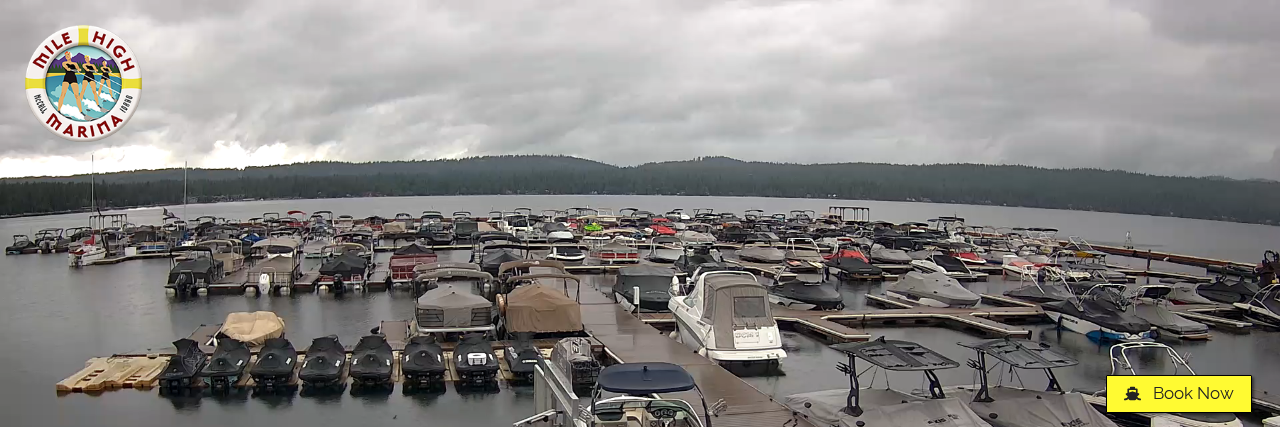
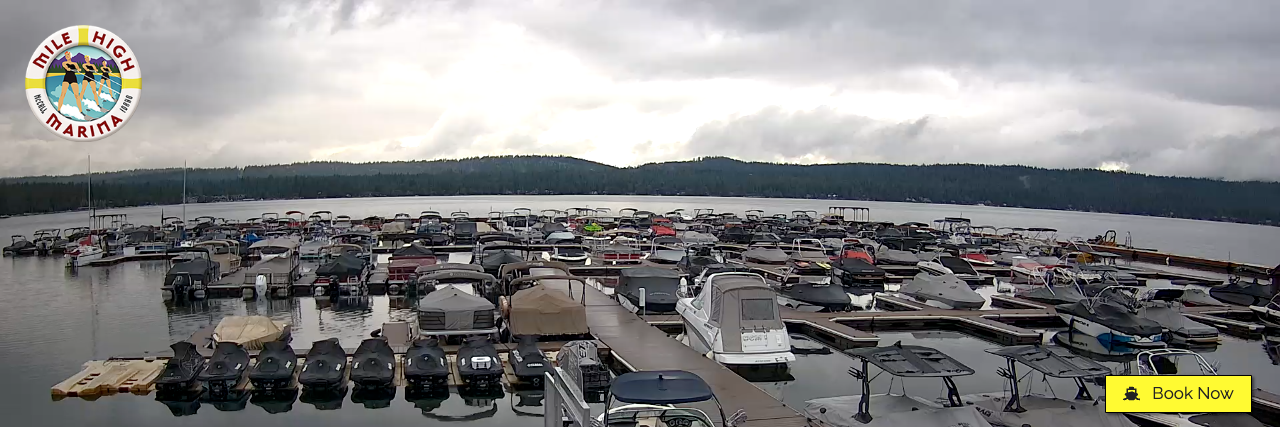
Add Tahoe Edgewood camera feed

diff --git a/src/forecast/app.js b/src/forecast/app.js
@@ -34,6 +34,23 @@ const mapViewBounds = {
 
 const defaultSpotSlug = "payette-lake";
 
+const cameraBySpot = {
+  "lake-tahoe": {
+    title: "Edgewood Tahoe Camera",
+    description: "Current South Lake Tahoe shoreline view",
+    sourceUrl: "https://edgewoodtahoe.com/webcam/",
+    imageUrl: "assets/edgewood-tahoe-camera.png",
+    alt: "Edgewood Tahoe webcam screenshot over Lake Tahoe",
+  },
+  "payette-lake": {
+    title: "Mile High Marina Camera",
+    description: "Current Payette Lake marina view",
+    sourceUrl: "https://milehighmarina.com/webcams/",
+    imageUrl: "assets/mile-high-marina-camera.png",
+    alt: "Mile High Marina webcam screenshot over Payette Lake",
+  },
+};
+
 const placeholderForecast = Array.from({ length: 10 }, (_, index) => ({
   label: index === 0 ? "Today" : new Date(Date.now() + index * 86400000).toLocaleDateString("en-US", { weekday: "short" }),
   grade: "--",
@@ -207,11 +224,25 @@ function renderSpot(spot) {
   currentLiveLatest = null;
   document.getElementById("spotName").textContent = spot.name;
   document.getElementById("spotLocation").textContent = spot.location;
-  const cameraCard = document.getElementById("cameraCard");
-  if (cameraCard) cameraCard.hidden = spot.slug !== "payette-lake";
+  renderCameraCard(spot);
   loadLiveSpotData(spot);
   loadWindTimelapse(spot);
   loadLakeShoreline(spot);
+}
+
+function renderCameraCard(spot) {
+  const camera = cameraBySpot[spot.slug];
+  const cameraCard = document.getElementById("cameraCard");
+  if (!cameraCard) return;
+  cameraCard.hidden = !camera;
+  if (!camera) return;
+  document.getElementById("cameraTitle").textContent = camera.title;
+  document.getElementById("cameraDescription").textContent = camera.description;
+  const source = document.getElementById("cameraSource");
+  source.href = camera.sourceUrl;
+  const image = document.getElementById("cameraImage");
+  image.src = camera.imageUrl;
+  image.alt = camera.alt;
 }
 
 function renderLiveSpotData(bundle) {

diff --git a/scripts/capture_mile_high_camera.js b/scripts/capture_mile_high_camera.js
@@ -12,6 +12,15 @@ function launchOptions() {
 
 (async () => {
   const browser = await chromium.launch(launchOptions());
+  await captureMileHigh(browser);
+  await captureEdgewood(browser);
+  await browser.close();
+})().catch((error) => {
+  console.error(error);
+  process.exit(1);
+});
+
+async function captureMileHigh(browser) {
   const page = await browser.newPage({ viewport: { width: 1280, height: 900 }, deviceScaleFactor: 1 });
   await page.goto("https://milehighmarina.com/webcams/", { waitUntil: "domcontentloaded", timeout: 45000 });
   await page.waitForTimeout(6000);
@@ -19,8 +28,19 @@ function launchOptions() {
     path: "assets/mile-high-marina-camera.png",
     clip: { x: 0, y: 473, width: 1280, height: 427 },
   });
-  await browser.close();
-})().catch((error) => {
-  console.error(error);
-  process.exit(1);
-});
+  await page.close();
+}
+
+async function captureEdgewood(browser) {
+  const page = await browser.newPage({ viewport: { width: 1280, height: 1000 }, deviceScaleFactor: 1 });
+  await page.goto("https://edgewoodtahoe.com/webcam/", { waitUntil: "domcontentloaded", timeout: 45000 });
+  await page.waitForTimeout(3000);
+  const acceptCookies = page.locator("#CybotCookiebotDialogBodyButtonAccept");
+  if (await acceptCookies.isVisible().catch(() => false)) {
+    await acceptCookies.click();
+  }
+  await page.waitForTimeout(4000);
+  const cameraFrame = page.locator("iframe[title*='Embedded camera'], iframe[src*='earthcam']").first();
+  await cameraFrame.screenshot({ path: "assets/edgewood-tahoe-camera.png" });
+  await page.close();
+}

diff --git a/index.html b/index.html
@@ -73,11 +73,11 @@
         <div class="section-heading">
           <div>
             <h2 id="cameraTitle">Mile High Marina Camera</h2>
-            <p>Current Payette Lake marina view</p>
+            <p id="cameraDescription">Current Payette Lake marina view</p>
           </div>
-          <a href="https://milehighmarina.com/webcams/" target="_blank" rel="noopener">Source</a>
+          <a id="cameraSource" href="https://milehighmarina.com/webcams/" target="_blank" rel="noopener">Source</a>
         </div>
-        <img src="assets/mile-high-marina-camera.png" alt="Mile High Marina webcam screenshot over Payette Lake">
+        <img id="cameraImage" src="assets/mile-high-marina-camera.png" alt="Mile High Marina webcam screenshot over Payette Lake">
       </section>
 
       <section class="ten-day-card" aria-labelledby="forecastTitle">

diff --git a/scripts/README.md b/scripts/README.md
@@ -13,10 +13,10 @@ Outputs:
 - `data/live/spots/payette-lake.json`
 - `data/live/wind_frames/*.json`
 - `data/live/map_layers/payette_*.geojson`
-- `assets/mile-high-marina-camera.png` when Node + Playwright are available
+- `assets/mile-high-marina-camera.png` and `assets/edgewood-tahoe-camera.png` when Node + Playwright are available
 
-Install macOS schedule. This refreshes weather data and the Mile High Marina
-camera screenshot hourly from 7:00 AM through 10:00 PM local time:
+Install macOS schedule. This refreshes weather data and lake camera screenshots
+hourly from 7:00 AM through 10:00 PM local time:
 
 ```sh
 chmod +x scripts/run_lakepro_pipeline.sh

diff --git a/assets/README.md b/assets/README.md
@@ -7,5 +7,6 @@ Current files:
 - `favicon.png` - temporary favicon using the supplied boat mark.
 - `hero-image.jpg` - unused placeholder from the foundation phase.
 - `mile-high-marina-camera.png` - current screenshot captured from the Mile High Marina webcam page for the Payette Lake report slot.
+- `edgewood-tahoe-camera.png` - current screenshot captured from the Edgewood Tahoe webcam page for the Lake Tahoe report slot.
 
 The site currently uses the map-first Dive Pro-style layout, so `hero-image.jpg` is not shown.